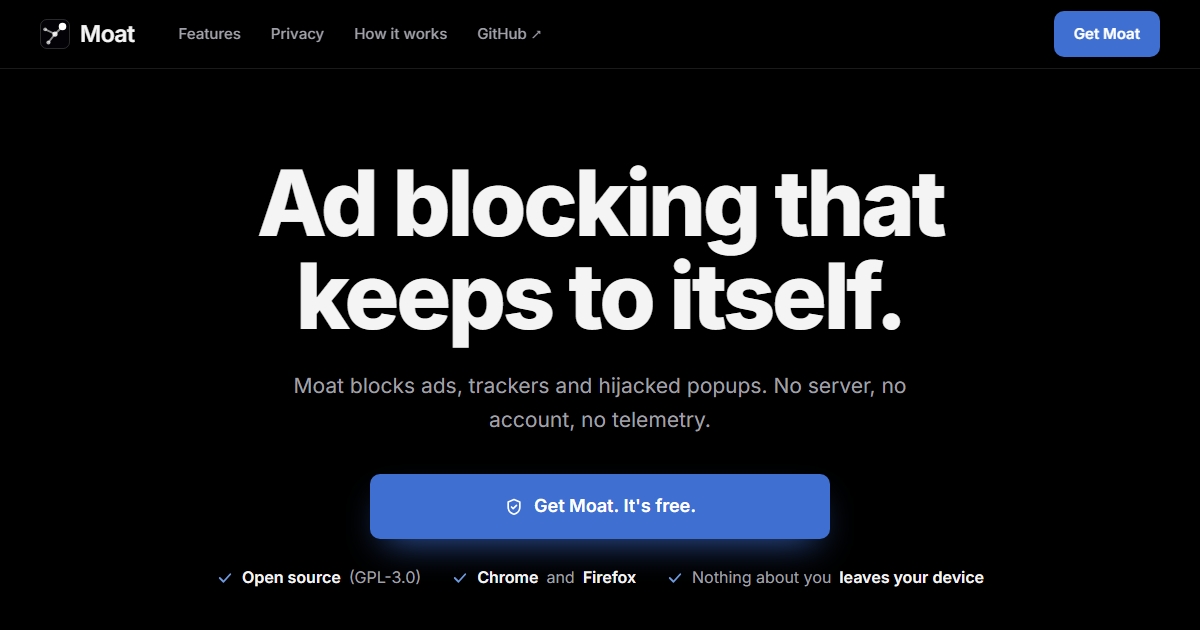
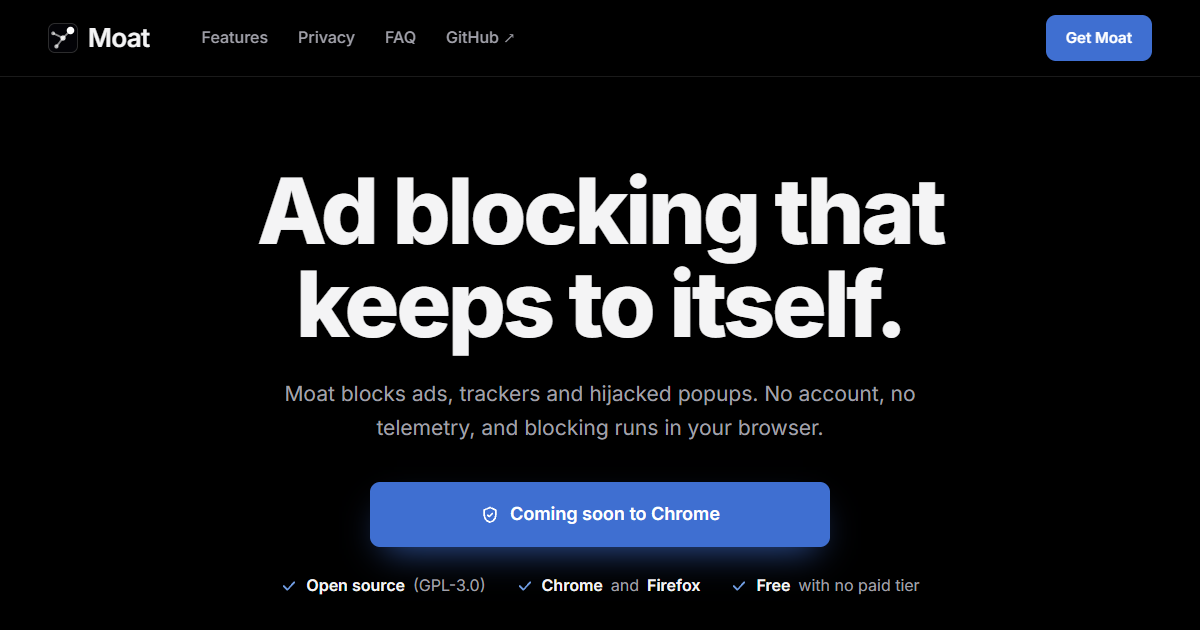
Copy: drop "No server" (the report inbox and live lists are online)
Moat does run something online: the problem-report inbox (Cloudflare
worker) and the signed live list files. "No server" on the site,
README, store summary and privacy store image wasn't accurate.

- Tagline everywhere: "No account, no telemetry, and blocking runs in
  your browser."
- Site privacy card "No server." -> "On your device." and says Moat
  goes online only for signed list updates and reports you send.
- FAQ money answer: "runs almost nothing online".
- Store summary 129 -> 119 chars; 2-privacy.png rebuilt; site/og.png
  re-shot from the current hero.

diff --git a/site/index.html b/site/index.html
@@ -4,10 +4,10 @@
 <meta charset="utf-8">
 <meta name="viewport" content="width=device-width, initial-scale=1">
 <title>Moat</title>
-<meta name="description" content="Moat is a free, open-source ad blocker for Chrome and Firefox. It blocks ads, trackers and hijacked popups. No server, no account, no telemetry.">
+<meta name="description" content="Moat is a free, open-source ad blocker for Chrome and Firefox. It blocks ads, trackers and hijacked popups. No account, no telemetry, and blocking runs in your browser.">
 <meta property="og:type" content="website">
 <meta property="og:title" content="Moat: ad blocking that keeps to itself">
-<meta property="og:description" content="A free, open-source ad blocker for Chrome and Firefox. No server, no account, no telemetry.">
+<meta property="og:description" content="A free, open-source ad blocker for Chrome and Firefox. No account, no telemetry, and blocking runs in your browser.">
 <meta property="og:url" content="https://samuelabhinav37.github.io/moat/">
 <meta property="og:image" content="https://samuelabhinav37.github.io/moat/og.png">
 <meta property="og:image:width" content="1200">
@@ -372,7 +372,7 @@
 <header class="hero" id="top">
   <div class="container">
     <h1>Ad blocking that<br>keeps to itself.</h1>
-    <p class="sub">Moat blocks ads, trackers and hijacked popups. No server, no account, no telemetry.</p>
+    <p class="sub">Moat blocks ads, trackers and hijacked popups. No account, no telemetry, and blocking runs in your browser.</p>
     <div class="cta">
       <a class="btn btn-blue btn-big" data-store href="https://github.com/Samuelabhinav37/moat/releases">
         <svg viewBox="0 0 24 24" fill="none" aria-hidden="true"><path d="M12 3 5 6v6c0 4.5 3 7.6 7 8.7 4-1.1 7-4.2 7-8.7V6l-7-3Z" stroke="currentColor" stroke-width="2" stroke-linejoin="round"/><path d="m9 12 2 2 4-4" stroke="currentColor" stroke-width="2" stroke-linecap="round" stroke-linejoin="round"/></svg>
@@ -540,8 +540,8 @@
       <div class="cards">
         <div class="card">
           <svg viewBox="0 0 24 24" fill="none" aria-hidden="true"><rect x="4" y="4" width="16" height="7" rx="2" stroke="currentColor" stroke-width="2"/><rect x="4" y="13" width="16" height="7" rx="2" stroke="currentColor" stroke-width="2"/><path d="M3 3l18 18" stroke="currentColor" stroke-width="2" stroke-linecap="round"/></svg>
-          <h3>No server.</h3>
-          <p>There's no Moat backend. Blocking happens inside your browser.</p>
+          <h3>On your device.</h3>
+          <p>Blocking happens inside your browser. Moat goes online only for signed list updates and reports you send.</p>
         </div>
         <div class="card">
           <svg viewBox="0 0 24 24" fill="none" aria-hidden="true"><circle cx="12" cy="8" r="4" stroke="currentColor" stroke-width="2"/><path d="M4 21c0-4 4-6 8-6s8 2 8 6" stroke="currentColor" stroke-width="2" stroke-linecap="round"/></svg>
@@ -619,7 +619,7 @@
           <details id="faq-free"><summary>Is Moat free?</summary><p>Yes. Moat is free and open source under GPL-3.0. There's no paid tier, no premium unlock and no subscription.</p></details>
           <details id="faq-what"><summary>What does Moat block?</summary><p>Ads, trackers, hijacked pop-up tabs and cookie banners, out of the box. Fingerprinting protection and leaked-password warnings are switches in Settings.</p></details>
           <details id="faq-data"><summary>Does Moat collect my data?</summary><p>No. Blocking runs on your device, and there's no account and no analytics. The only thing it downloads is a small, signed file of filter fixes once a day, and that request carries nothing about you. The only time anything reaches Moat's developer is a problem report you write and send yourself, after seeing exactly what it contains.</p></details>
-          <details id="faq-money"><summary>How does Moat make money?</summary><p>It doesn't. Moat is an open-source project with no server to pay for. Nothing you do is sold, and it doesn't show "acceptable" ads.</p></details>
+          <details id="faq-money"><summary>How does Moat make money?</summary><p>It doesn't. Moat is an open-source project that runs almost nothing online, so there's little to pay for. Nothing you do is sold, and it doesn't show "acceptable" ads.</p></details>
         </div>
         <div class="faq-col">
           <details id="faq-how"><summary>How does Moat work?</summary><p>Filter lists run inside the browser's own blocking engine, so ads and trackers are stopped before they load. A small signed update arrives once a day. <a href="https://github.com/Samuelabhinav37/moat/blob/master/docs/design-notes.md">Read the technical details</a>.</p></details>

diff --git a/README.md b/README.md
@@ -4,7 +4,7 @@
 </h1>
 
 <p align="center"><strong>Ad blocking that keeps to itself.</strong><br>
-A free, open-source ad blocker for Chrome and Firefox. No server, no account, no telemetry.</p>
+A free, open-source ad blocker for Chrome and Firefox. No account, no telemetry, and blocking runs in your browser.</p>
 
 <p align="center">
   <a href="https://github.com/Samuelabhinav37/moat/actions/workflows/ci.yml"><img src="https://github.com/Samuelabhinav37/moat/actions/workflows/ci.yml/badge.svg" alt="CI status"></a>

diff --git a/docs/store-listing.md b/docs/store-listing.md
@@ -16,9 +16,9 @@ goes in which slot and how to rebuild them).
 
 ## Short description (≤132 chars — CWS "summary" / AMO "summary")
 
-> Ad blocker and popup firewall with no server, no account, and no telemetry. Everything runs on your device. Manifest V3, open source.
+> Ad blocker and popup firewall with no account and no telemetry. Blocking runs on your device. Manifest V3, open source.
 
-(129 chars.)
+(119 chars.)
 
 ## Full description
 
